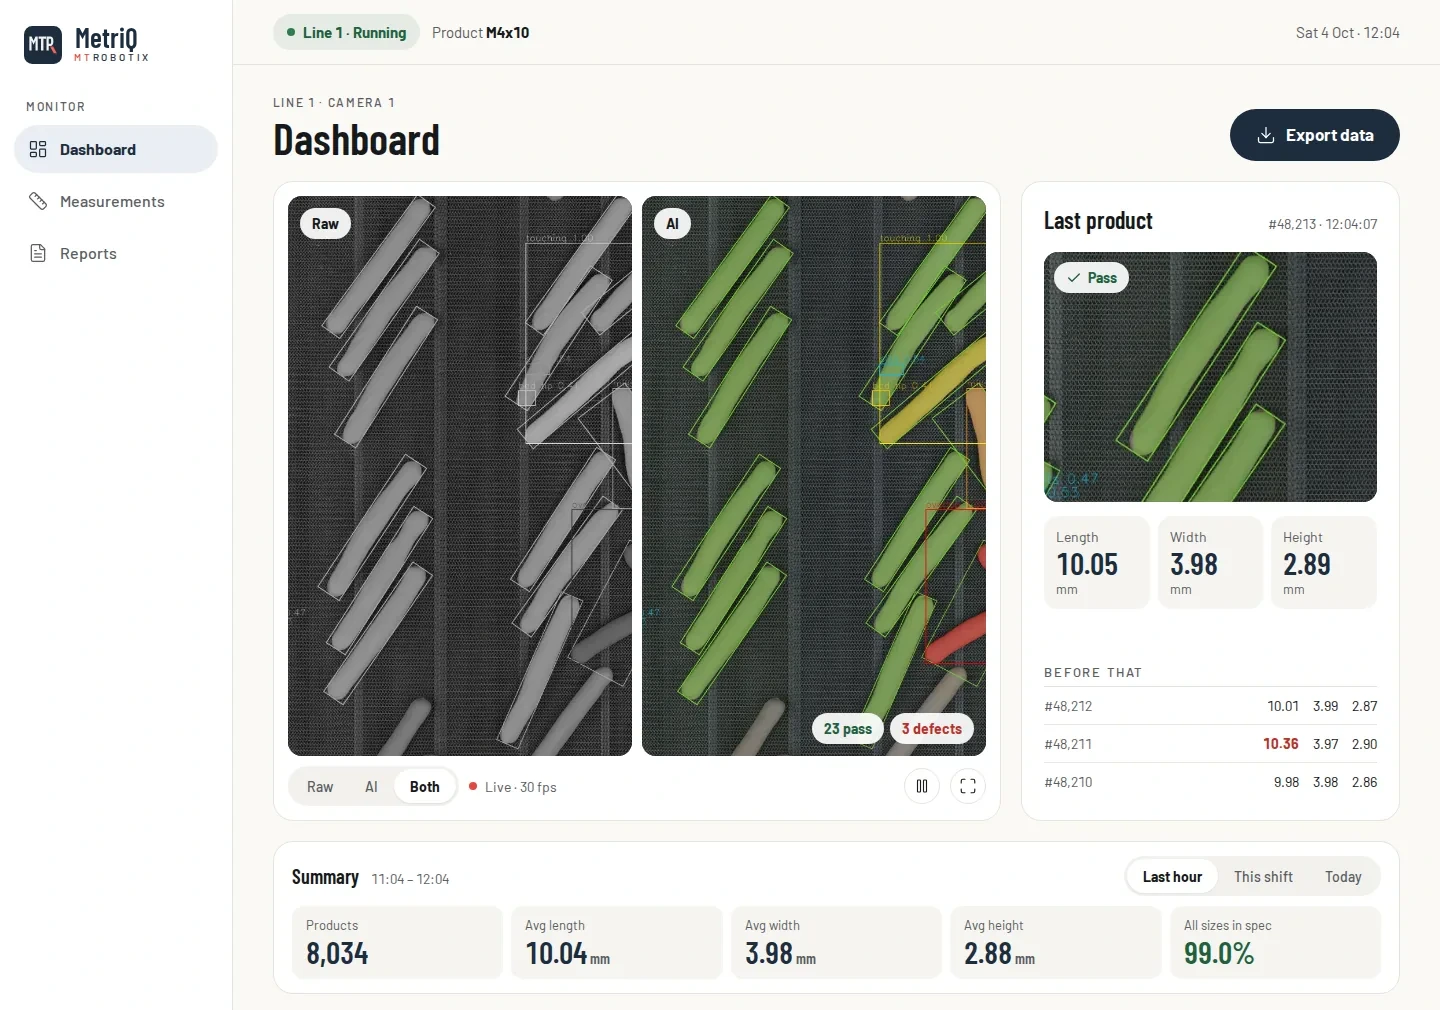
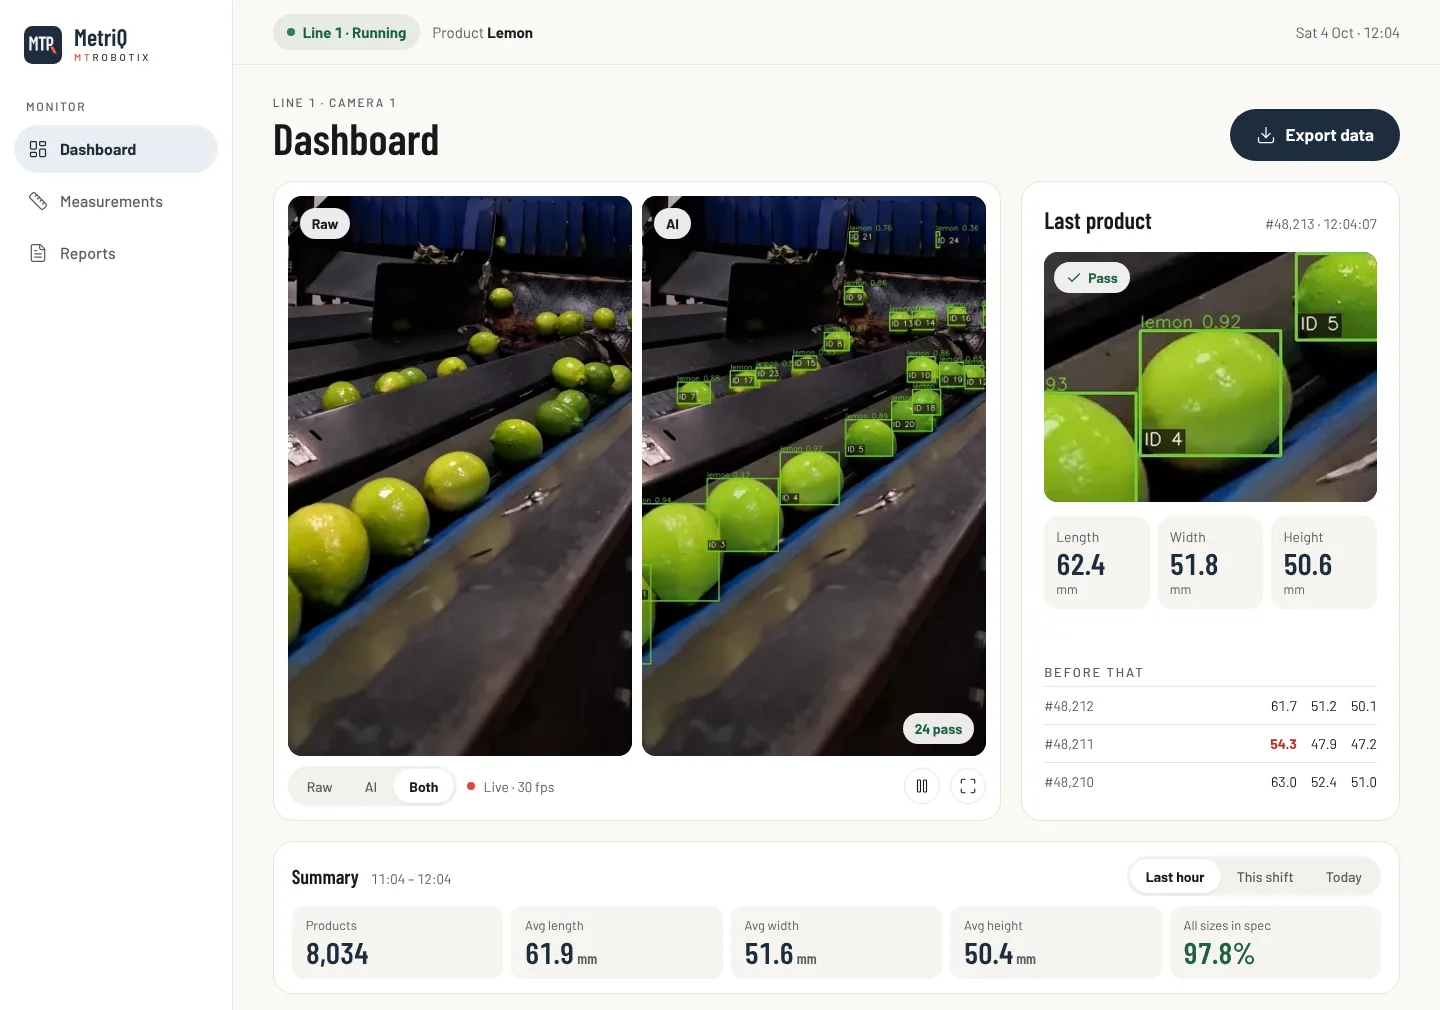
MetriQ page: replace dough screenshots with lemon inference
The dashboard screenshot now shows the raw and AI views of a lemon line,
with the last lemon and lemon-sized sample measurements. The "In practice"
image is real MetriQ output on a lemon line. Alt text and captions are
updated in EN and VI.

Claude-Session: https://claude.ai/code/session_01KBsTQwRoyD7wtmr1PrKPfN

diff --git a/src/data/content.ts b/src/data/content.ts
@@ -100,7 +100,7 @@ export const metriq = {
     heroCaption: 'MetriQ inspection cell — camera mounted over the conveyor.',
     dashboardTitle: 'Every part, measured live',
     dashboardLead: 'See the camera view, the last product and the averages for length, width and height. Export the data when you need it.',
-    dashboardAlt: 'MetriQ dashboard: raw and AI camera views side by side, the last product with its length, width and height, and a summary of the last hour',
+    dashboardAlt: 'MetriQ dashboard on a lemon line: raw and AI camera views side by side, the last lemon with its length, width and height, and a summary of the last hour',
     dashboardCaption: 'MetriQ dashboard preview, with sample data.',
     specsTitle: 'What MetriQ does',
     specsCapability: 'Capability',
@@ -134,8 +134,8 @@ export const metriq = {
       'Fits onto the line you already run — no process redesign.',
     ],
     practiceTitle: 'In practice',
-    practiceCaption: 'Real MetriQ output — every piece graded and sorted as it passes.',
-    practiceAlt: 'MetriQ camera view: pieces on the conveyor outlined green when good and red when defective',
+    practiceCaption: 'Real MetriQ output on a lemon line — every lemon found and tracked as it passes.',
+    practiceAlt: 'MetriQ camera view: lemons on a sorting line, each outlined green with its tracking number',
     stepsTitle: 'Getting started',
     ctaTitle: 'See MetriQ on your product',
     ctaLead: 'Start with a line survey. Tell us your product, line speed and current reject process.',
@@ -151,7 +151,7 @@ export const metriq = {
     heroCaption: 'Trạm kiểm tra MetriQ — camera gắn phía trên băng tải.',
     dashboardTitle: 'Đo từng sản phẩm, theo thời gian thực',
     dashboardLead: 'Xem hình ảnh camera, sản phẩm vừa đi qua và giá trị trung bình của chiều dài, chiều rộng, chiều cao. Xuất dữ liệu khi bạn cần.',
-    dashboardAlt: 'Bảng điều khiển MetriQ: hình ảnh camera gốc và AI đặt cạnh nhau, sản phẩm vừa đi qua với chiều dài, chiều rộng, chiều cao, và tóm tắt một giờ qua',
+    dashboardAlt: 'Bảng điều khiển MetriQ trên dây chuyền chanh: hình ảnh camera gốc và AI đặt cạnh nhau, quả chanh vừa đi qua với chiều dài, chiều rộng, chiều cao, và tóm tắt một giờ qua',
     dashboardCaption: 'Bản xem trước bảng điều khiển MetriQ, dữ liệu mẫu.',
     specsTitle: 'MetriQ làm được gì',
     specsCapability: 'Tính năng',
@@ -185,8 +185,8 @@ export const metriq = {
       'Lắp vào dây chuyền hiện có — không cần thiết kế lại quy trình.',
     ],
     practiceTitle: 'Thực tế vận hành',
-    practiceCaption: 'Kết quả thực tế của MetriQ — từng sản phẩm được đánh giá và phân loại khi đi qua.',
-    practiceAlt: 'Hình ảnh camera MetriQ: sản phẩm đạt được viền xanh, sản phẩm lỗi được viền đỏ',
+    practiceCaption: 'Kết quả thực tế của MetriQ trên dây chuyền chanh — từng quả được phát hiện và theo dõi khi đi qua.',
+    practiceAlt: 'Hình ảnh camera MetriQ: chanh trên dây chuyền phân loại, mỗi quả có viền xanh và số theo dõi',
     stepsTitle: 'Bắt đầu',
     ctaTitle: 'Xem MetriQ hoạt động với sản phẩm của bạn',
     ctaLead: 'Bắt đầu bằng một buổi khảo sát dây chuyền. Cho chúng tôi biết sản phẩm, tốc độ dây chuyền và quy trình loại bỏ hàng lỗi hiện tại.',
